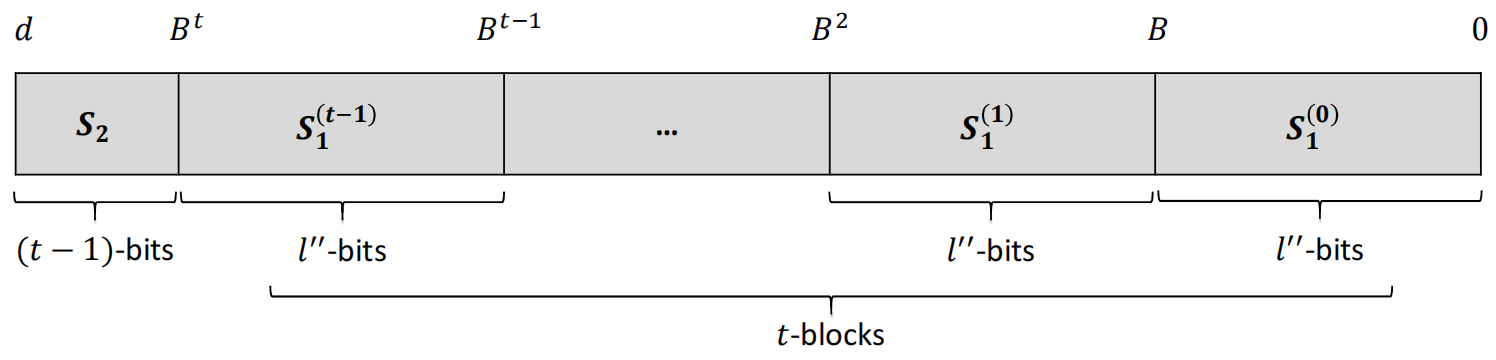
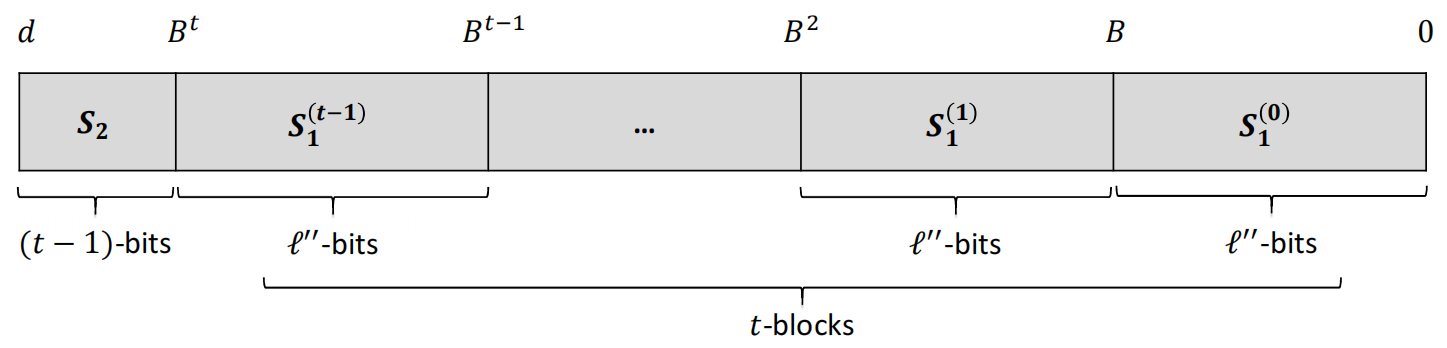
test for Nov blogpost (Qingfeng)

diff --git a/_test/2025-10-26-asymmetric-BSGS-algorithm.md b/_test/2025-10-26-asymmetric-BSGS-algorithm.md
@@ -1,0 +1,200 @@
+---
+layout: post
+title: >
+  A Novel Asymmetric BSGS Polynomial Evaluation Algorithm under Homomorphic Encryption
+date: 2025-10-19
+description: >
+  TL;DR: We introduce a new polynomial evaluation algorithm under homomorphic encryption, namely the Asymmetric BSGS Algorithm. It is a generalization and specialization of the original Baby-Step Giant-Step algorithm in the leveled FHE computation model. Leveraging the observation that there is a difference in multiplicative depth between the baby-step set and the giant-step set, this algorithm significantly reduces the number of modulus and key switches required for dense polynomial evaluation from $$O(\sqrt{d})$$ to $$O(d^{1/t})$$, by adjusting the set decomposition method and relaxing the control of noise growth and ciphertext size in some calculations. Here, $$d$$ is the polynomial degree and $$t$$ is a small constant which, according to our experiments, is recommended to be chosen as $$4$$.
+author: Qingfeng Wang
+tags:
+categories:
+related_posts:
+pretty_table: true
+# toc:
+# sidebar: right
+---
+
+- Written by [Qingfeng Wang](https://orcid.org/0009-0004-6490-7717) (Institute of Information Engineering, Chinese Academy of Sciences)
+- Based on [https://doi.org/10.1145/3708821.3710822](https://dl.acm.org/doi/10.1145/3708821.3710822) (ASIACCS 2025)
+
+*TL;DR: We introduce a new polynomial evaluation algorithm under homomorphic encryption, namely the Asymmetric BSGS Algorithm. It is a generalization and specialization of the original Baby-Step Giant-Step algorithm in the leveled FHE computation model. Leveraging the observation that there is a difference in multiplicative depth between the baby-step set and the giant-step set, this algorithm significantly reduces the number of modulus and key switches required for dense polynomial evaluation from $$O(\sqrt{d})$$ to $$O(d^{1/t})$$, by adjusting the set decomposition method and relaxing the control of noise growth and ciphertext size in some calculations. Here, $$d$$ is the polynomial degree and $$t$$ is a small constant which, according to our experiments, is recommended to be chosen as $$4$$.*
+
+---
+
+<br />
+
+## 1. How to Compute Polynomial Evaluation?
+
+Polynomial evaluation is one of the most crucial tasks in the field of computing. This is particularly true in leveled FHEs, as they only support homomorphic addition, homomorphic multiplication, and some automorphisms related to SIMD packing. Almost all functions are either interpolated (in BGV/BFV) or approximated (in CKKS) with the use of specific polynomials.
+
+So, how can we efficiently compute polynomial evaluation? For polynomials that can be factored into sparse factors, such as $$f(X) = (x^3+1)^{16}\cdot(x^{32}+x-1)$$, we can compute the evaluation of each sparse-coefficient polynomial separately and then multiply them together. Thus, the computational cost is relatively low, although the multiplication depth may not be optimal. However, most polynomials are difficult or even impossible to factor into sparse factors. One can only use general polynomial evaluation algorithms to deal with them, among which the most well-known is the BSGS algorithm[^1].
+
+Briefly speaking, for a degree-$$d$$ polynomial $$f(X) = \sum_{i}f_{i}X^{i}$$, the BSGS algorithm selects two integers, $$k\approx m\approx\sqrt{d}$$, such that $$km > d$$. Then the coefficients of $$f(X)$$ can be partitioned into $$m$$ intervals of length at most $$k$$, namely
+
+$$
+f(X)=\sum_{j = 0}^{m - 1}f^{(j)}(X)\cdot(X^{k})^{j},
+$$
+
+where each $$f^{(j)}(X)=\sum_{i = 0}^{k-1}f_{jk + i}X^{i}$$ is a polynomial of degree less than $$k$$.
+
+Given a value $$x$$, pre-compute $$S_1 := \{1,x,\cdots,x^{k-1}\}$$ (which we call the baby-step set) and $$S_2 := \{1,z,\cdots,z^{m-1}\}$$ (which we call the giant-step set), where $$z := x^k$$. Then the computation of all $$y_j := f^{(j)}(x)$$ is merely a linear combination of the elements in $$S_1$$, and this can be efficiently computed in leveled FHE. Finally, by multiplying the $$y_j$$ with the elements in $$S_2$$ and then summing them up, the computation of $$f(x)$$ can be completed.
+
+The above-mentioned algorithm takes $$3\sqrt{d}$$ non-scalar multiplications: computing $$S_1$$, computing $$S_2$$, and the final multiplication and accumulation each take $$\sqrt{d}$$ non-scalar multiplications. If we use Horner's rule, the computation of $$S_2$$ can be omitted, but at the cost of increasing the multiplication depth to the order of $$\sqrt{d}$$. The recursive variant of the BSGS algorithm, the Paterson-Stockmeyer algorithm, only requires $$\sqrt{2d}+O(\log d)$$ non-scalar multiplications and has a multiplicative depth of logarithmic order.
+
+It has been proven that **a general polynomial evaluation algorithm requires at least $$\sqrt{d}$$ non-scalar multiplications**[^1], so it seems that there is no way to further improve the performance. 
+
+<br />
+## 2. We Can Do Better!
+
+We need to emphasize that there are significant differences between the leveled FHE computation model and the classical computation model. In the classical computation model, multiplication is an atomic operation, and there is no concept of "levels" for data. 
+
+However, in the leveled FHE computation model, homomorphic multiplication consists of three distinct operations with different purposes.
+
+1. **Tensor product**: A ciphertext $$\mathbf{ct} \in \mathcal{R}_q[\mathbf{S}]$$ is a polynomial over the cyclotomic ring $$\mathcal{R}_q$$ with respect to the variable $$\mathbf{s} \in \mathcal{R}_q$$, and its (noisy) plaintext is its evaluation $$\mathbf{ct}(\mathbf{s}) = \textbf{m}+\textbf{e} \in \mathcal{R}_q$$. Multiplying two ciphertexts then realizes the multiplication of the two underlying plaintexts. In a typical setting, the asymptotic complexity of the tensor product is linear in terms of the security parameter, and the cost of tensor product amounts to less than 5% of that of homomorphic multiplication in practice.
+2. **Modulus switching**: When performing the tensor product, the ciphertext noise $$\mathbf{e} \in \mathcal{R}_q$$ is also multiplied, and its growth rate is proportional to the norm of $$\mathbf{e}$$. By dividing by a rescaling factor in the cyclotomic field $$\mathcal{K}\supset\mathcal{R}$$ and then rounding to $$\mathcal{R}$$ to discard the lower-order bits of the noise $$\mathbf{e}$$, the noise growth can be effectively controlled. And modulus switching endows ciphertexts with levels. The asymptotic complexity of modulus switching is quasi-linear with respect to the security parameter, and the cost of modulus switching typically constitutes approximately 20% in homomorphic multiplication.
+3. **Relinearization**: Because polynomial multiplication over $$\mathcal{R}_q[\mathbf{S}]$$ will increase the degree of the ciphertext, we need use key switching to linearize the ciphertext polynomial. This is also of quasi-linear complexity with respect to the security parameter, and it is usually the most costly one, especially when the ciphertext size increases.
+
+Now, let's consider what is special about implementing the BSGS algorithm in leveled FHEs. Horner’s rule would imply depth proportional to the square root of the degree, so is excluded. Given the ciphertext of $$x$$, using a binary-tree approach to pre-compute the ciphertexts of $$S_1$$ and $$S_2$$ requires $$\sqrt{d}$$ standard homomorphic multiplications respectively. In the process of multiplying the $$y_j$$ with the elements in $$S_2$$ and accumulating, the lazy technique, *which takes advantage of the commutativity and associativity between the above-mentioned three operations and addition*, can be used to combine some modulus and key switches. Altogether, approximately $$2\sqrt{d}$$ modulus and key switches are required.
+
+The figure below shows the homomorphic evaluation process of a 32-degree polynomial, where $$k = m = 6$$. 
+
+<div class="row mt-3">
+    <div class="col-sm-10 mt-3 mt-md-0 mx-auto d-block">
+        {% include figure.liquid loading="eager" path="assets/img/blog/2511_Qingfeng/img0.png" class="img-fluid rounded" zoomable=true %}
+    </div>
+</div>
+We observe that **the ciphertexts of $$S_1$$ have a much shallower ciphertext level than those of $$S_2$$**. Specifically, the multiplicative depth of the ciphertexts of $$S_1$$ is $$\ell_1=\left\lceil \log (k - 1) \right\rceil$$, and the multiplicative depth of the ciphertexts of $$S_2$$ is $$\ell_2=\left\lceil \log (km - k) \right\rceil$$. The difference between the two is $$\ell_2-\ell_1\approx\frac{1}{2}\cdot\log d$$, which is half of the overall multiplicative depth. We note that the noise control for the ciphertexts of set $$S_1$$ does not actually need to be so strict. **As long as the multiplicative depth of $$S_1$$ is not greater than that of $$S_2$$**, the multiplicative depth of the final calculation result will not change.
+
+How can we make full use of this difference in multiplicative depth? During the construction of $$S_1$$, given $$t = \ell_2-\ell_1+1$$ ciphertexts located at most at the $$\ell_1$$-th layer, it is tempting to *evaluate their tensor products without performing modulus switching*. At this time, the depth of the calculated $$S_1$$ will not exceed $$\ell_2$$, and the computational efficiency is significantly improved.
+
+Since the size of $$S_2$$ is $$\sqrt{d}$$, the overall number of modulus switches is still $$O(\sqrt{d})$$, but this is sufficient to provide us with an optimization direction. To achieve improvement in asymptotic complexity, we suggest to:
+
+1. Adjust the relative sizes of $$S_1$$ and $$S_2$$.
+2. Further decompose $$S_1$$ into some small sets.
+
+<br />
+## 3. Asymmetric BSGS Algorithm
+
+### 3.1 Preliminary Version
+
+First, we introduce "set multiplication", which is used to simplify the description of set decomposition in the algorithm. Given two sets $$S$$ and $$S'$$, which are subsets of a multiplicative group $$(G,\cdot)$$. Define $$S \odot S':=\{s \cdot s' \mid s\in S, s'\in S'\} \subseteq G$$.
+
+For a set $$S := \{1,x,\cdots,x^d\}$$, the BSGS algorithm considers two sets $$S_1$$ and $$S_2$$ of approximately the same size, such that $$S\subseteq S_1\odot S_2$$. We generalize it to:
+$$
+S \subseteq S_1^{(0)} \odot \cdots \odot S_1^{(t - 1)} \odot S_2,
+$$
+
+such that 
+$$|S_1^{(j)}| = O(d^{1/t})$$ and $$|S_2|\leq2^{t - 1}=O(1)$$, where $$t$$ is a small integer.
+
+Most importantly, we ensure that **the multiplicative depth of $$S_2$$ is $$t - 1$$ levels higher than that of $$S_1^{(j)}$$**. Then,
+
+1. First, use the binary-tree method to construct $$S_1^{(j)}$$ and $$S_2$$.
+2. Second, reconstruct $$S_1$$ based on $$S_1^{(j)}$$ and calculate $$y_j := f^{(j)}(x)$$, **without performing modulus switching during this process**.
+3. Finally, calculate $$f(x)$$ based on $$y_j$$ and $$S_2$$.
+
+Since the multiplicative depth of $$S_1$$ calculated in step 2 does not exceed the multiplicative depth $$\ell_2$$ of $$S_2$$, the multiplicative depth spent by the above algorithm is $$\ell_2 + 1$$, which is the same as that of the original BSGS algorithm. Let's briefly analyze the number of modulus switches spent by this algorithm: Step 1 requires $$t\cdot O(d^{1/t})+2^{t-1}$$ modulus switches, step 2 no longer requires modulus switches, and step 3 requires $$O(1)$$ modulus switches. In total, it spends $$O(d^{1/t})$$ modulus switches.
+
+The decomposition of the set $$S$$ is not unique. By generalizing the decomposition method in the original BSGS, we present a simple method based on digit decomposition. Suppose $$\ell=\lceil\log d\rceil$$, set $$\ell'=\ell-(t - 1)$$, $$\ell''=\ell'/t$$ and $$B = 2^{\ell''}$$. Define the sets
+
+$$
+S_1^{(j)}:=\{x^e\mid e = i\cdot B^j,\, i = 0,\cdots,B - 1\},\, j = 0,\cdots,t - 1
+$$
+
+and
+
+$$
+S_2:=\{x^e\mid e = i\cdot B^t,\, i = 0,\cdots,\lfloor d/B^t\rfloor\},
+$$
+
+where the multiplicative depth of $$S_1^{(j)}$$ is $$(j + 1)\cdot\ell''\leq\ell'$$, which is $$(t - 1)$$ levels shallower than the multiplicative depth $$\ell$$ of the set $$S_2$$. The figure below shows the relative relationship of the multiplicative depths of each set.
+
+<div class="row mt-3">
+    <div class="col-sm-10 mt-3 mt-md-0 mx-auto d-block">
+        {% include figure.liquid loading="eager" path="assets/img/blog/2511_Qingfeng/img1.png" class="img-fluid rounded" zoomable=true %}
+    </div>
+</div>
+
+### 3.2 Complete Version
+
+In the above-mentioned algorithm, there are still two directions for optimization:
+
+* **Reduce the number of key switches**. Since $$t$$ is a small integer, even if no relinearization is performed in step 2, the ciphertexts in the obtained $$S_1$$ are polynomials in $$\mathcal{R}_q[\mathbf{S}]$$ with degree at most $$t$$. *We postpone all relinearizations to step 3, utilizing the lazy technique along with a larger key-switching key.*
+* **Reduce the number of tensor products**. The size of the set $$S_1$$ is $$O(d^{1/t})^t = O(d)$$, so step 2 requires the computation of $$O(d)$$ tensor products. *This can be reduced to $$O(\sqrt{d})$$ by re-applying the BSGS algorithm, which we term the ”Internal BSGS Subroutine”.*
+
+Specifically, let $$t'=\lceil t/2\rceil$$ and define
+
+$$
+\bar{S}_1 = \{x^e\mid e = 0,\cdots,B^{t'}-1\}
+$$
+
+and
+
+$$
+\hat{S}_1=\{x^e\mid e = i\cdot B^{t'},\, i = 0,\cdots,B^{t - t'}-1\}.
+$$
+
+Then, it can be proven that $$\bar{S}_1\subseteq S_1^{(0)}\odot\cdots\odot S_1^{(t'-1)}$$, 
+$$\hat{S}_1\subseteq S_1^{(t')}\odot\cdots\odot S_1^{(t - 1)}$$ and $$S_1\subseteq \bar{S}_1\odot\hat{S}_1$$, where $$|\bar{S}_1| \approx |\hat{S}_1| = O(\sqrt{d})$$. Similar to the original BSGS algorithm, based on the pre-computed $$\bar{S}_1$$ and $$\hat{S}_1$$, the $$y_j$$ in step 2 can be calculated rapidly.
+
+Given a polynomial $$f(X)=\sum_j f^{(j)}(X)\cdot(X^{B^t})^j$$ and the ciphertext of the value $$x$$, the steps of the asymmetric BSGS algorithm are as follows:
+
+1. First, compute $$S_1^{(j)}$$ and $$S_2$$, which costs $$O(d^{1/t})$$ standard homomorphic multiplications.
+2. Second, construct $$\bar{S}_1$$ and $$\hat{S}_1$$ based on $$S_1^{(j)}$$, and then use the Internal BSGS Subroutine to compute $$y_j := f^{(j)}(x)$$. During this process, only $$O(\sqrt{d})$$ tensor products are performed.
+3. Finally, perform modulus switching and relinearization on $$y_j$$, and then compute $$f(x)$$ based on $$S_2$$. Here, it costs $$O(1)$$ standard homomorphic multiplications.
+
+This provides a description of the high-level abstraction of the asymmetric BSGS algorithm.
+
+### 3.3 Specific Implementation
+
+Due to the fact that *different leveled FHEs adopt different encoding strategies*, there are subtle differences in the specific implementation of the asymmetric BSGS algorithm.
+
+* **BGV uses LSB encoding and NTT packing**, with explicit ciphertext levels and modulus switching. The asymmetric BSGS algorithm fully adheres to the description in the previous subsection.
+* **CKKS uses fixed-point number encoding and DFT packing**, with explicit ciphertext levels, and modulus switching is replaced by rescaling. The asymmetric BSGS algorithm also fully follows the description in the previous subsection, and its computational accuracy is close to that of the original BSGS algorithm.
+* **BFV uses MSB encoding and NTT packing**, and modulus switching is implicitly performed during the tensor product, making it difficult to actively relax the noise control. For Step 2, we suggest to first convert all the BFV ciphertexts in $$S_1^{(j)}$$ to BGV ciphertexts[^2], then compute the tensor products, and finally convert $$\bar{S}_1$$ and $$\hat{S}_1$$ back to BFV ciphertexts.
+
+### 3.4 Complexity Analysis
+
+The following table compares the asymptotic complexity of the asymmetric BSGS algorithm with that of the original BSGS algorithm and its recursive variant (Paterson-Stockmeyer algorithm).
+
+Recently, a literature[^3] proposed an automorphism-based polynomial evaluation algorithm with a computational complexity of only $$O(\log d)$$. However, this algorithm depends on a specific algebraic structure and can only support polynomial evaluations of limited degrees, so it is excluded here.
+
+| Algorithm                     | Scalar Mult. | Addition | Tensor Product                | Key Switching                 | Modulus Switching             | Multiplicative Depth     |
+| ----------------------------- | --------------------- | -------- | ----------------------------- | ----------------------------- | ----------------------------- | ------------------------ |
+| Original BSGS Algorithm       | $$O(d)$$                | $$O(d)$$   | $$\approx 3\sqrt{d}$$           | $$\approx 2\sqrt{d}$$         | $$\approx 2\sqrt{d}$$         | $$\lceil\log d\rceil + 1$$ |
+| Paterson-Stockmeyer Algorithm | $$O(d)$$                | $$O(d)$$   | $$\sqrt{2d}+O(\log d)$$ | $$\approx \sqrt{2d}$$ | $$\approx \sqrt{2d}$$ | $$\lceil\log d\rceil$$     |
+| Asymmetric BSGS Algorithm     | $$O(d)$$                | $$O(d)$$   | $$O(\sqrt{d})$$                 | $$O(d^{1/t})$$                  | $$O(d^{1/t})$$                  | $$\lceil\log d\rceil + 1$$ |
+
+<br />
+
+To keep the description concise, we ignored the influence of the constant $$t$$ in the asymptotic complexity of the asymmetric BSGS algorithm. However, we note that as $$t$$ increases, there is a factor of $$t$$ hidden in the complexity of key switching and modulus switching, and a factor of $$2^{t - 1}$$ hidden in the complexity of tensor products. Therefore, for any fixed $d$, there is a turning point at which increasing $$t$$ further will instead increase the overall computational cost.
+
+To strike a balance between the positive and negative effects, we conducted a series of experiments. The results show that for polynomials of degree less than 65536, setting $$t = 4$$ yields the optimal performance in most scenarios. An interesting follow-up direction would be to mitigate the negative impact of the parameter $t$ in this asymptotic complexity, so as to further increase its value.
+
+The figure below shows the exact number of modulus switches and key switches in the asymmetric BSGS algorithm with different parameters. Although it performs worse than the Paterson-Stockmeyer algorithm for polynomials of low degrees, as the degree of the polynomial increases, the number of modulus and key switches is only a fraction of that in the Paterson-Stockmeyer algorithm.
+
+<div class="row mt-3">
+    <div class="col-sm-11 mt-3 mt-md-0 mx-auto d-block">
+        {% include figure.liquid loading="eager" path="assets/img/blog/2511_Qingfeng/img2.png" class="img-fluid rounded" zoomable=true %}
+    </div>
+</div>
+
+<br />
+## 4. Applications
+
+The asymmetric BSGS algorithm is universal and can handle the evaluation tasks of polynomials of any degree in all leveled FHEs. 
+
+All homomorphic computing tasks that rely on high-degree dense polynomial evaluation will benefit from this, including leveled FHE bootstrapping and LWE amortized bootstrapping. For example, we obtain the following accelerations:
+
+* $$2.9\times$$ improvement in throughput for the bootstrapping of BGV presented in paper[^4].
+* $$3.5\times$$ increase in latency for a recent amortized bootstrapping for LWE ciphertext presented in paper[^5].
+
+<br />
+## 5. References
+
+[^1]: Mike Paterson, Larry J. Stockmeyer. On the number of nonscalar multiplications necessary to evaluate polynomials. SIAM J. Comput. 1973.
+[^2]: Jacob Alperin-Sheriff and Chris Peikert. Practical Bootstrapping in Quasi-linear Time. CRYPTO 2013.
+[^3]: Hiroki Okada, Rachel Player, Simon Pohmann. Homomorphic Polynomial Evaluation Using Galois Structure and Applications to BFV Bootstrapping. ASIACRYPT 2023.
+[^4]: Shai Halevi, Victor Shoup. Bootstrapping for HElib. EUROCRYPT 2015.
+[^5]: Zeyu Liu, Yunhao Wang. Amortized Functional Bootstrapping in Less than 7 ms, with Õ(1) Polynomial Multiplications. ASIACRYPT 2023.
+
